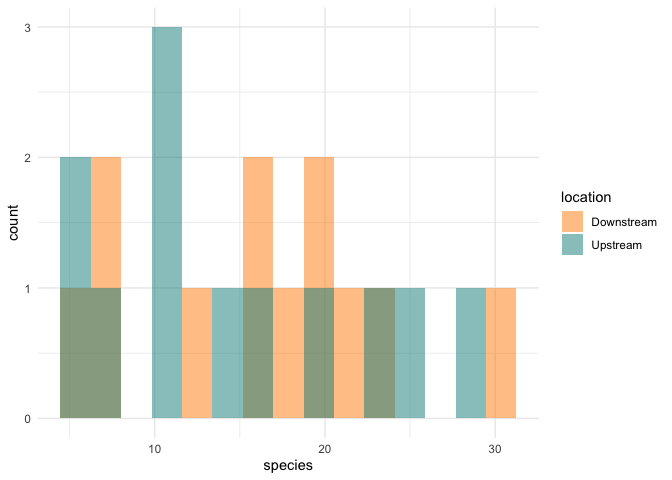
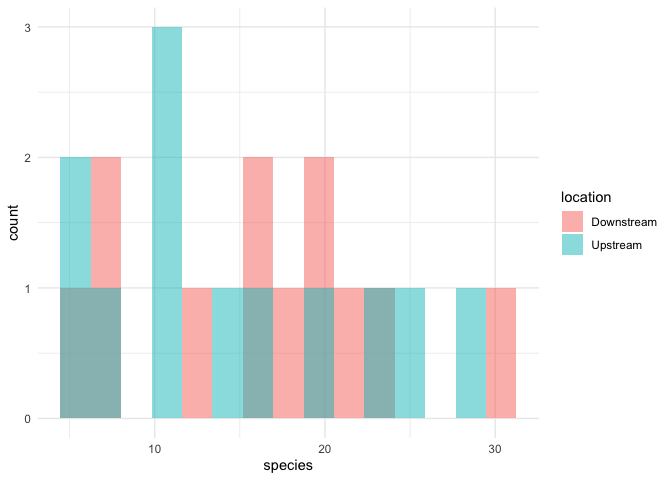
4272021 2

Changed region(s): [[0.2188, 0.0312, 0.7812, 0.875], [0.0625, 0.3125, 0.1875, 0.875], [0.8125, 0.4375, 0.875, 0.5312]]

diff --git a/README.md b/README.md
@@ -89,7 +89,7 @@ fish_long %>%
     alpha = 0.5, 
     position = "identity"
   ) +
-  scale_fill_manual(values = c("darkorange","cyan4")) +
+  #scale_fill_manual(values = c("darkorange","cyan4")) +
   theme_minimal()
 ```
 
@@ -132,6 +132,7 @@ crab <- read_csv("chap15q27FiddlerCrabFans.csv")
     ## )
 
 ``` r
+crab <- na.omit(crab)
 crab %>% 
   ggplot(aes(x = bodyTemperature)) +
   geom_histogram(
@@ -175,7 +176,6 @@ aov_crab_claw
     ## 
     ## Residual standard error: 0.2081952
     ## Estimated effects may be unbalanced
-    ## 1 observation deleted due to missingness
 
 ``` r
 summary(aov_crab_claw)
@@ -186,4 +186,3 @@ summary(aov_crab_claw)
     ## Residuals   80  3.468  0.0433                   
     ## ---
     ## Signif. codes:  0 '***' 0.001 '**' 0.01 '*' 0.05 '.' 0.1 ' ' 1
-    ## 1 observation deleted due to missingness
